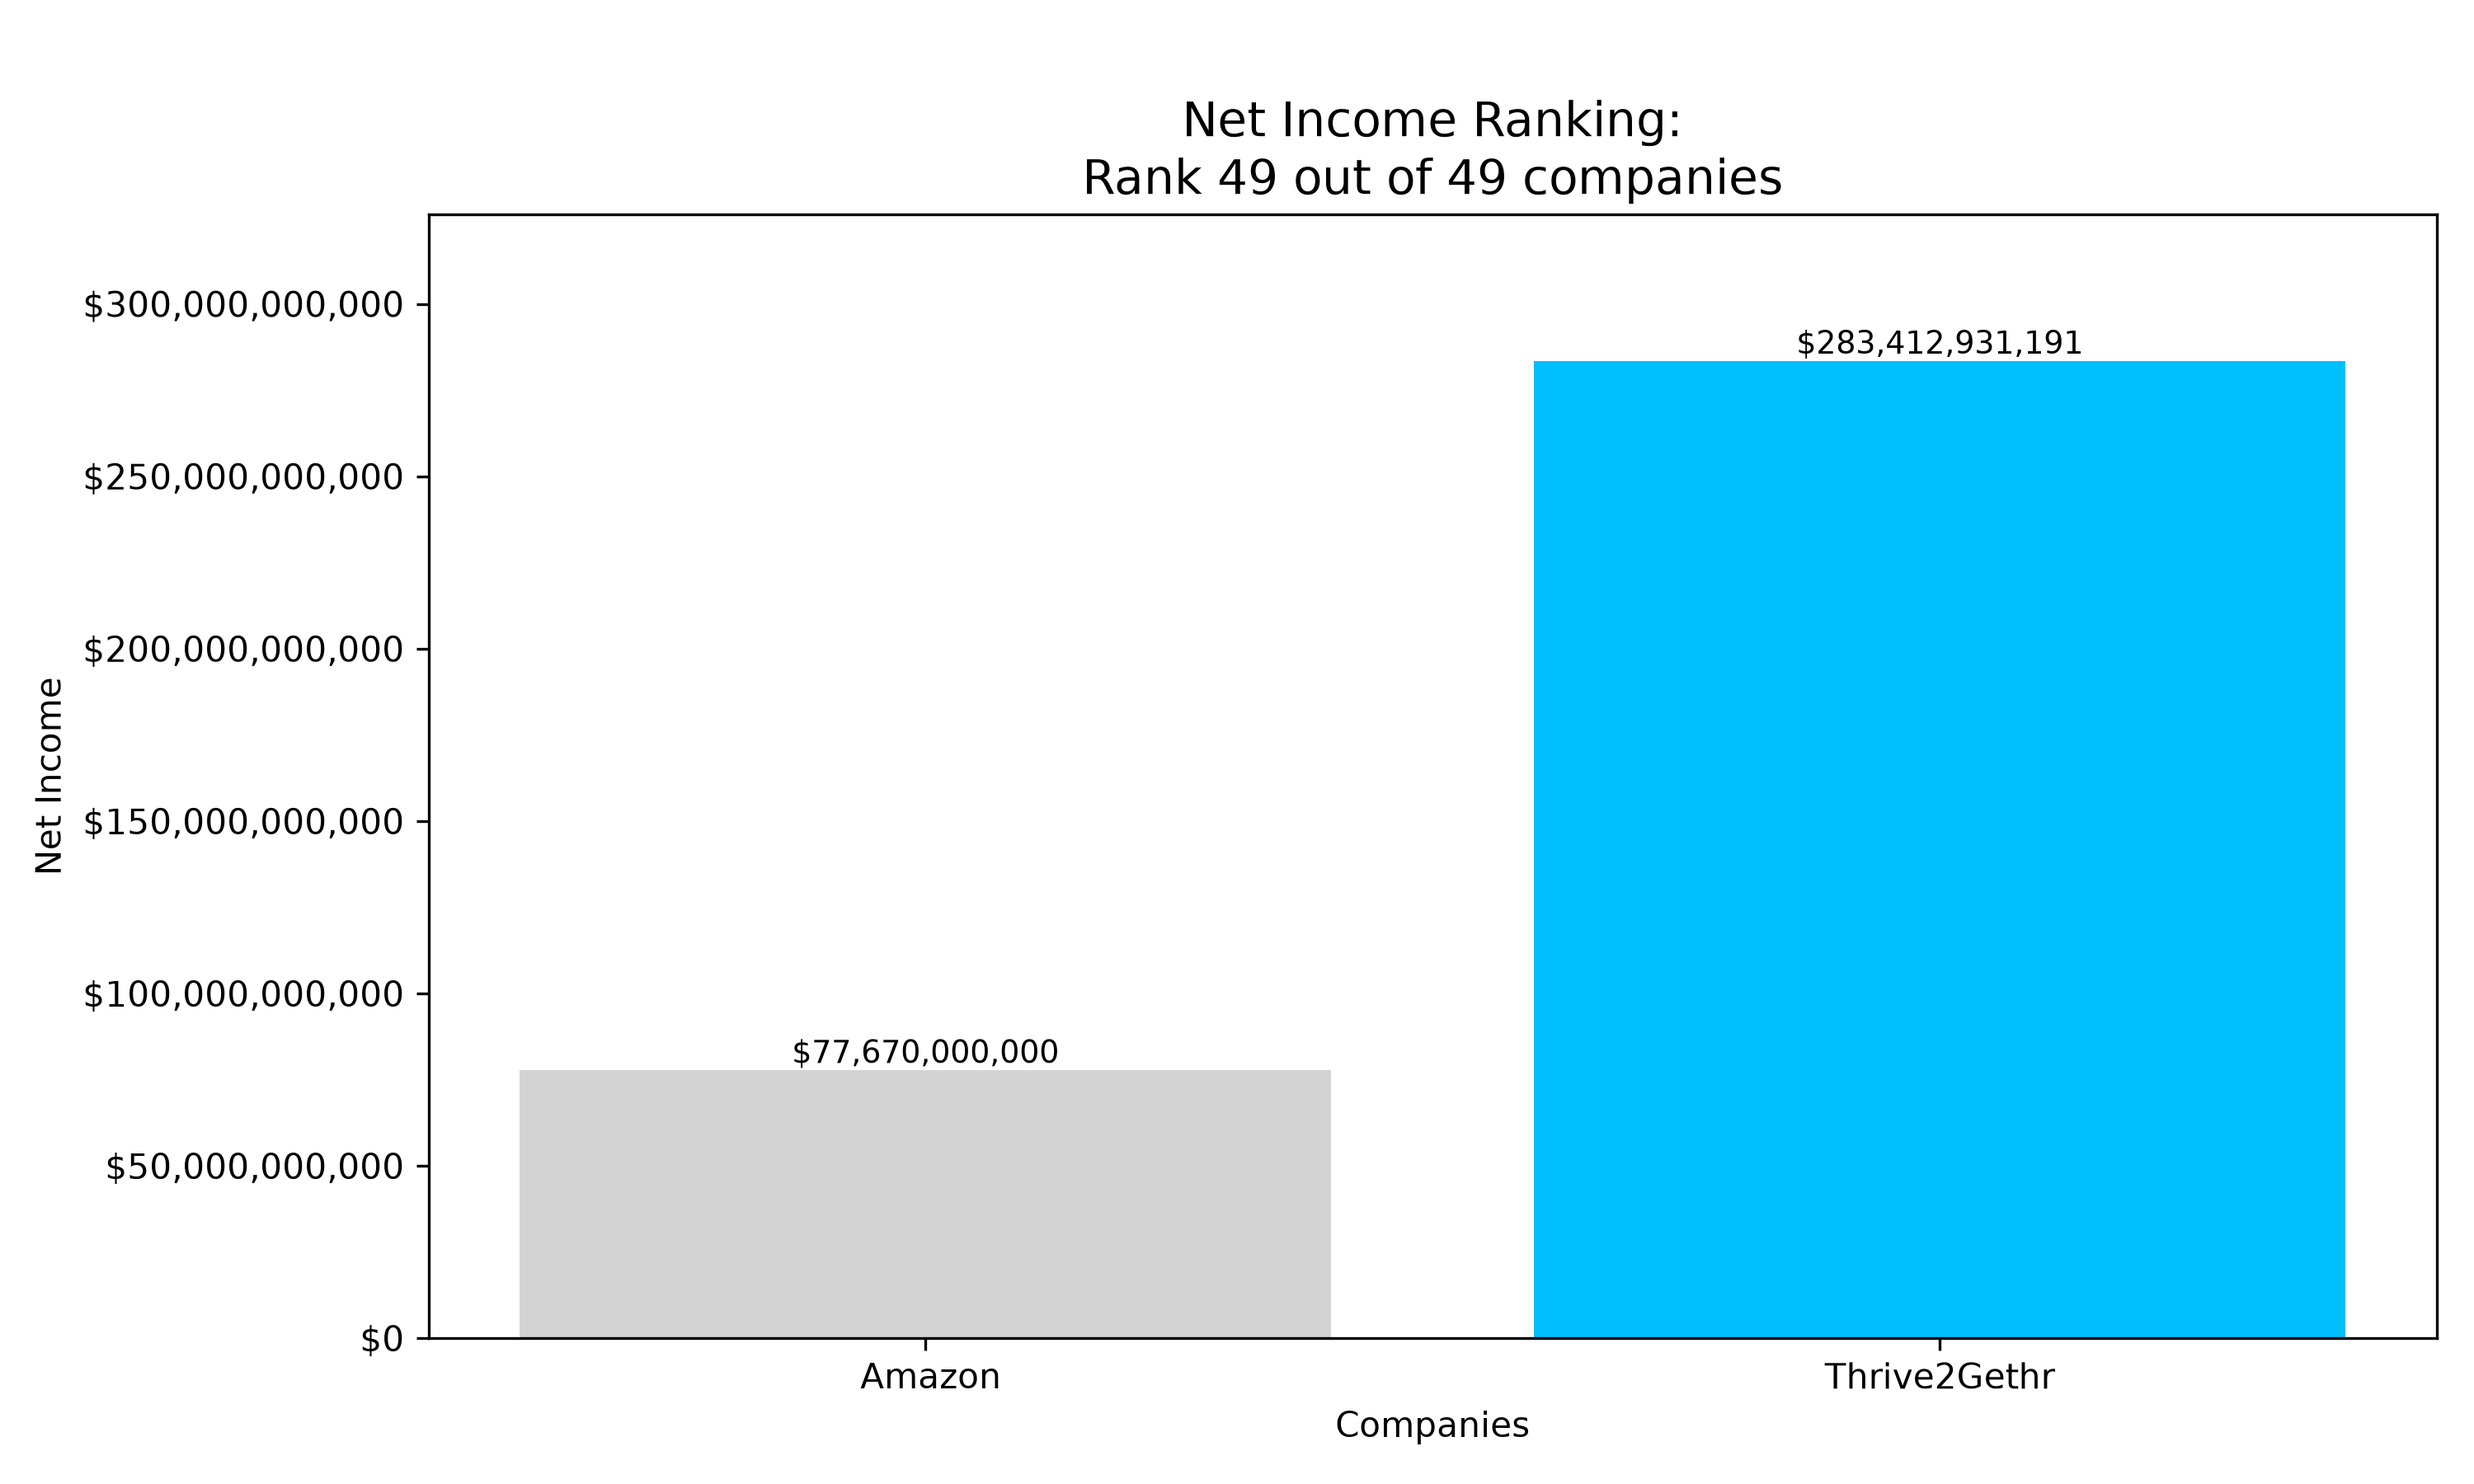
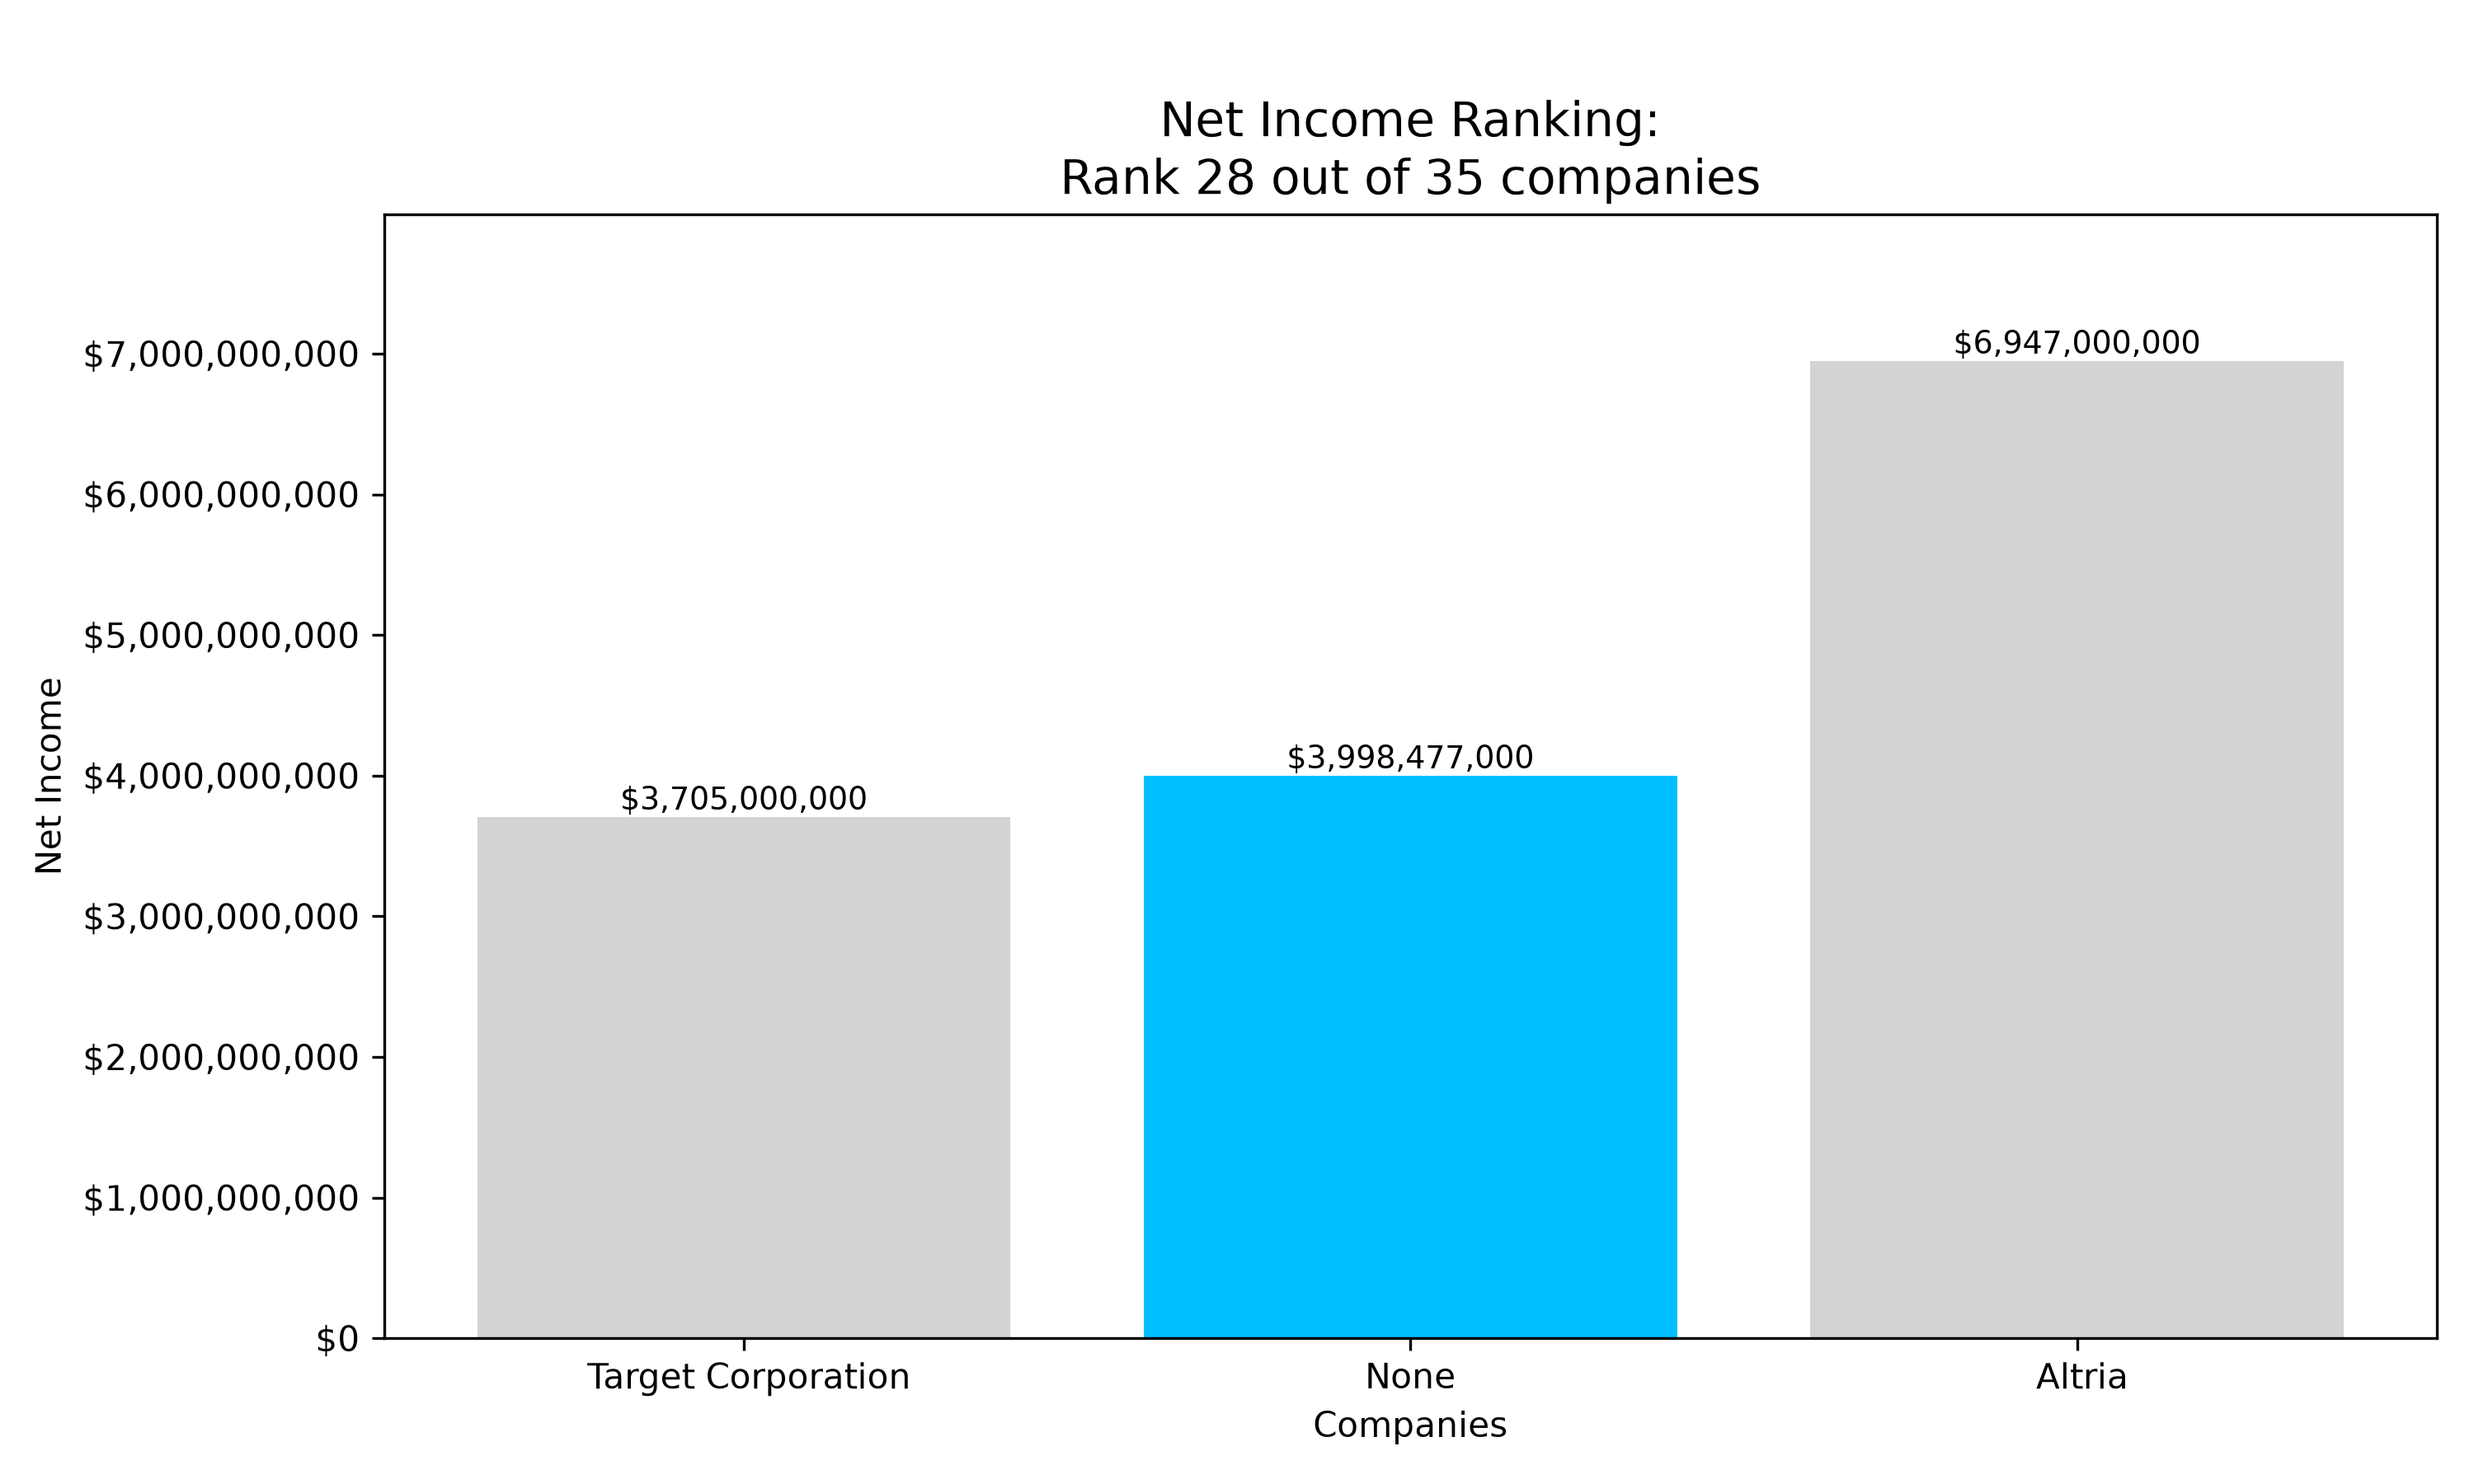
Update about page and results page

diff --git a/templates/about.html b/templates/about.html
@@ -191,37 +191,34 @@
     <h1>Learn About Us</h1>
 
   <section class="intro">
-    <div class="overview">
-      <p class="copy">
-        Finance Analyzer helps small business entrepreneurs evaluate financial
-        performance and benchmark against industry peers.
-      </p>
-      <p class="copy">
-        Users enter financial statement data to get insights into profitability,
-        operational efficiency, and cash flow.
-      </p>
-      <p class="copy">
-        The application compares selected metrics with S&amp;P 500 industry peers.
-      </p>
-    </div>
-
     <div class="how-it-works">
       <h2 class="section-title">How It Works</h2>
-    </div>
-    <div class="copy">
-      <p class="lead">
+
+      <p class="copy">
         <span class="arrow">→</span>
         Evaluate Your Organization’s Financial Performance
       </p>
+
       <ul>
-        <li>Compare profitability, efficiency, and cash flow with industry peers.</li>
+        <li class="copy">
+          Compare profitability, efficiency, and cash flow with industry peers.
+        </li>
       </ul>
-      <p class="lead"><span class="arrow">→</span>Have available:</p>
-      <ol>
-        <li>Income statement</li>
-        <li>Balance sheet</li>
-        <li>Statement of cash flows</li>
-      </ol>
+
+      <p class="copy">
+        <span class="arrow">→</span>
+        Have available:
+      </p>
+
+      <ul>
+        <li class="copy"> Income statement</li>
+      </ul>
+      <ul>
+        <li class="copy"> Balance sheet</li>
+      </ul>
+      <ul>
+        <li class="copy"> Statement of cash flows</li>
+      </ul>
     </div>
   </section>
 

diff --git a/templates/results.html b/templates/results.html
@@ -418,7 +418,7 @@
 
         margin-top: 10px;
 
-        color: var(--deep-blue);
+        color: var(--gold-light);
 
         font-weight: 700;
 
